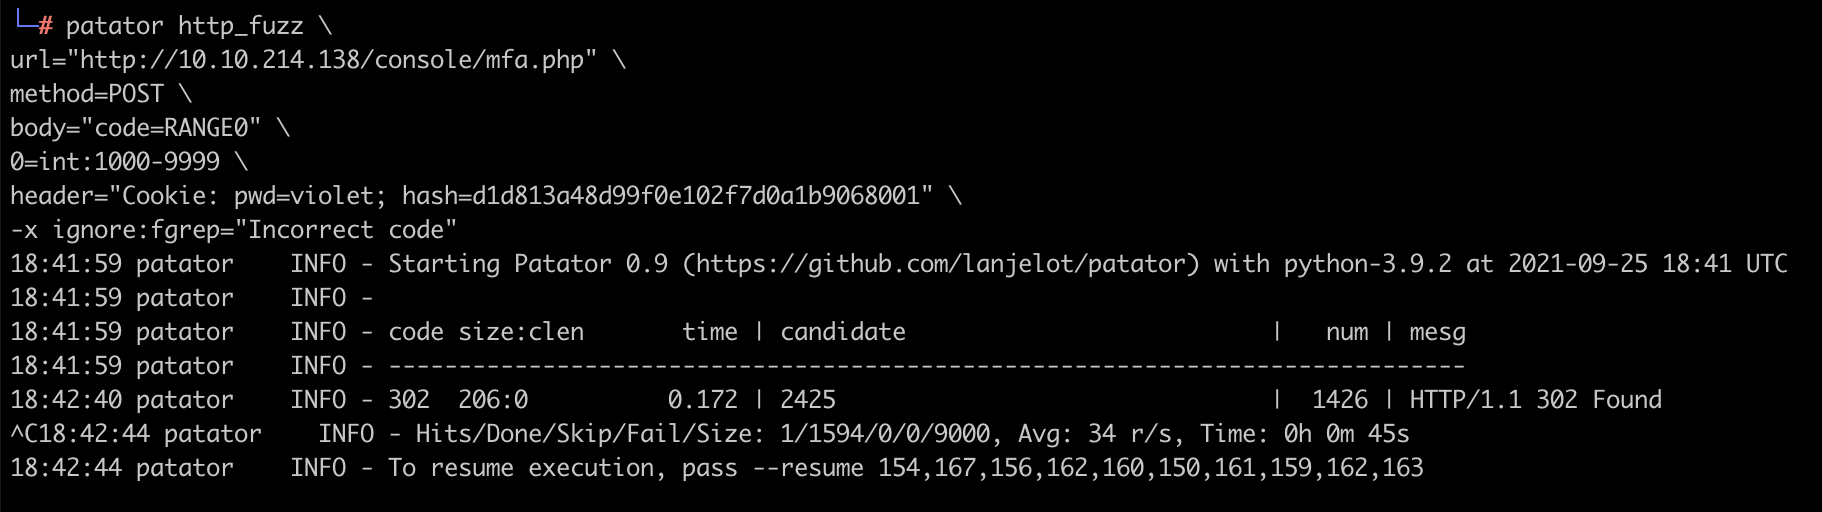
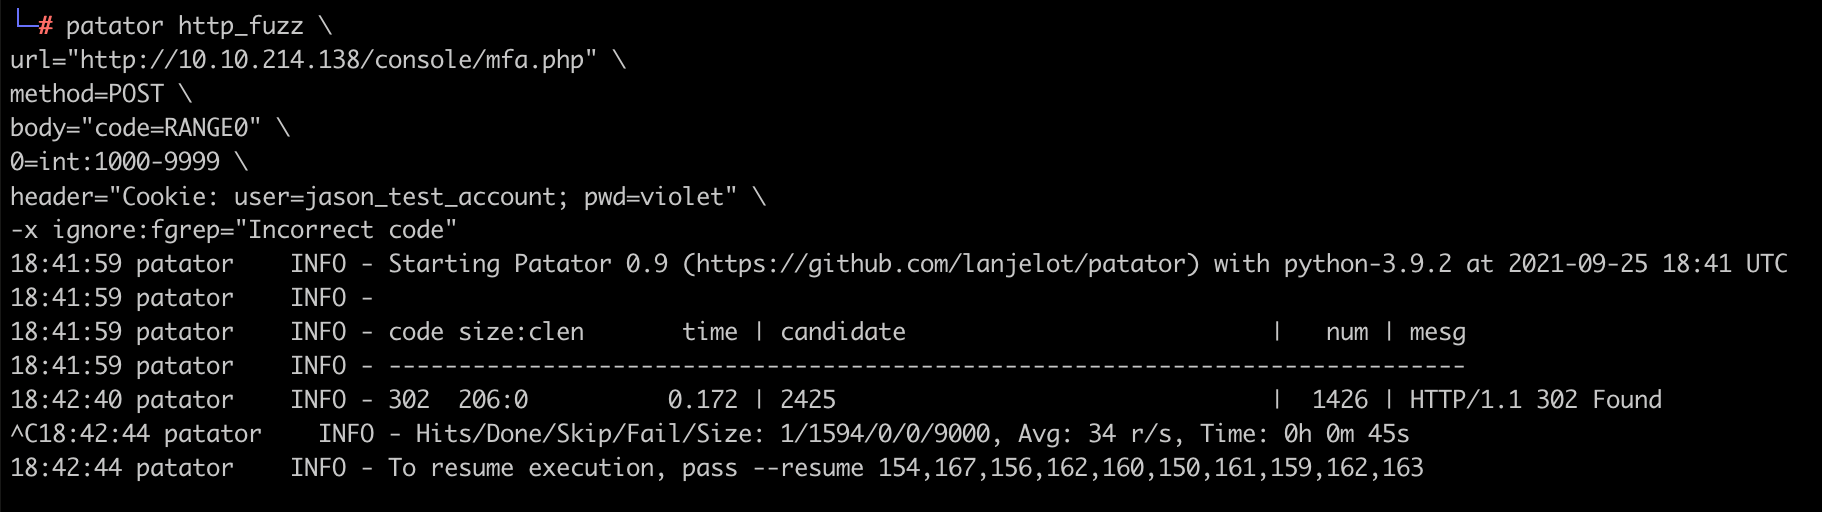
Updates to write up

Changed region(s): [[0.0, 0.3438, 0.5225, 0.4062]]

diff --git a/_posts/2021-09-26-tryhackme-biteme-official-writeup.html b/_posts/2021-09-26-tryhackme-biteme-official-writeup.html
@@ -26,11 +26,9 @@ categories:
 
 <p><img src="/img/writeup/3.png"></p>
 
-<p>Results show we get a 200 response for /console/, so let's open that URL in our browser.</p>
+<p>Results show we get a 200 response for <code>/console/</code>, so let's open that URL in our browser.</p>
 
 <p><img src="/img/writeup/4.png"></p>
-
-<p>Trying a few random passwords it looks like it takes a few seconds for the form response, so this will make brute force very slow. Perhaps there are other clues in the source code of the page.</p>
 
 <p>I noticed a Javascript function "handleSubmit" which executes when the form has been submitted, it appears this function has been obfuscated.</p>
 
@@ -50,21 +48,31 @@ categories:
 Many servers are configured to automatically highlight files with a phps extension. For example, example.phps when viewed will show the syntax highlighted source of the file.
 {% endhighlight %}
 
-<p>So let's try something here, we know the page is called index.php so what happens if we try index.phps?</p>
+<p>So let's try something here, we know the page is called <code>index.php</code> so what happens if we try <code>index.phps</code>?</p>
 
 <p><img src="/img/writeup/6.png"></p>
 
 <p>Boom.. we have the PHP source code for the page. Let's find the part that logs us in...</p>
 
 {% highlight php %}
-$hash = md5($_POST['pwd']);
-
-if (substr($hash, -3) === '001') {
+if (is_valid_user($_POST['user']) && is_valid_pwd($_POST['pwd'])) {
     ...
 }
 {% endhighlight %}
 
-<p>This creates an MD5 hash of the password and then checks the last 3 characters of that hash match the string "001". Ok so we need to figure out a password that would produce a correct hash.</p>
+<p>Looks like we have some custom functions here. Let's take a look at <code>functions.phps</code> and see if that source code is also visible to see.</p>
+
+<p><img src="/img/writeup/6a.png"></p>
+
+<p>So the <code>is_valid_user</code> function uses <a href="https://www.php.net/manual/en/function.bin2hex.php" target="_blank">bin2hex</a> to compare the submitted username against a constant defined as <code>LOGIN_USER</code>. Let's check <code>config.phps</code> to see if we can extract that constant.</p>
+
+<p><img src="/img/writeup/6b.png"></p>
+
+<p>Now let's reverse this hex string using <code>hex2bin</code> to get the correct value.</p>
+
+<p><img src="/img/writeup/6c.png"></p>
+
+<p>Now let's take a look at the <code>is_valid_pwd</code> function. This creates an MD5 hash of the password and then checks the last 3 characters of that hash match the string "001". Ok so we need to figure out a password that would produce a correct hash.</p>
 
 <p>We can write a script to figure this out. I am going to use an existing wordlist and hash each entry to check if the last 3 characters match "001". I will write this in PHP and use the rockyou wordlist as my input file.</p>
 
@@ -88,7 +96,7 @@ fclose($file);
 
 <p>Very quickly we find a suitable password... "violet" which has an MD5 hash of d1d813a48d99f0e102f7d0a1b9068001.</p>
 
-<p>Using violet as the password we now get onto the next page, which asks for a 4 digit code.</p>
+<p>We can now get onto the next page, which asks for a 4 digit code.</p>
 
 <p><img src="/img/writeup/10.png"></p>
 
